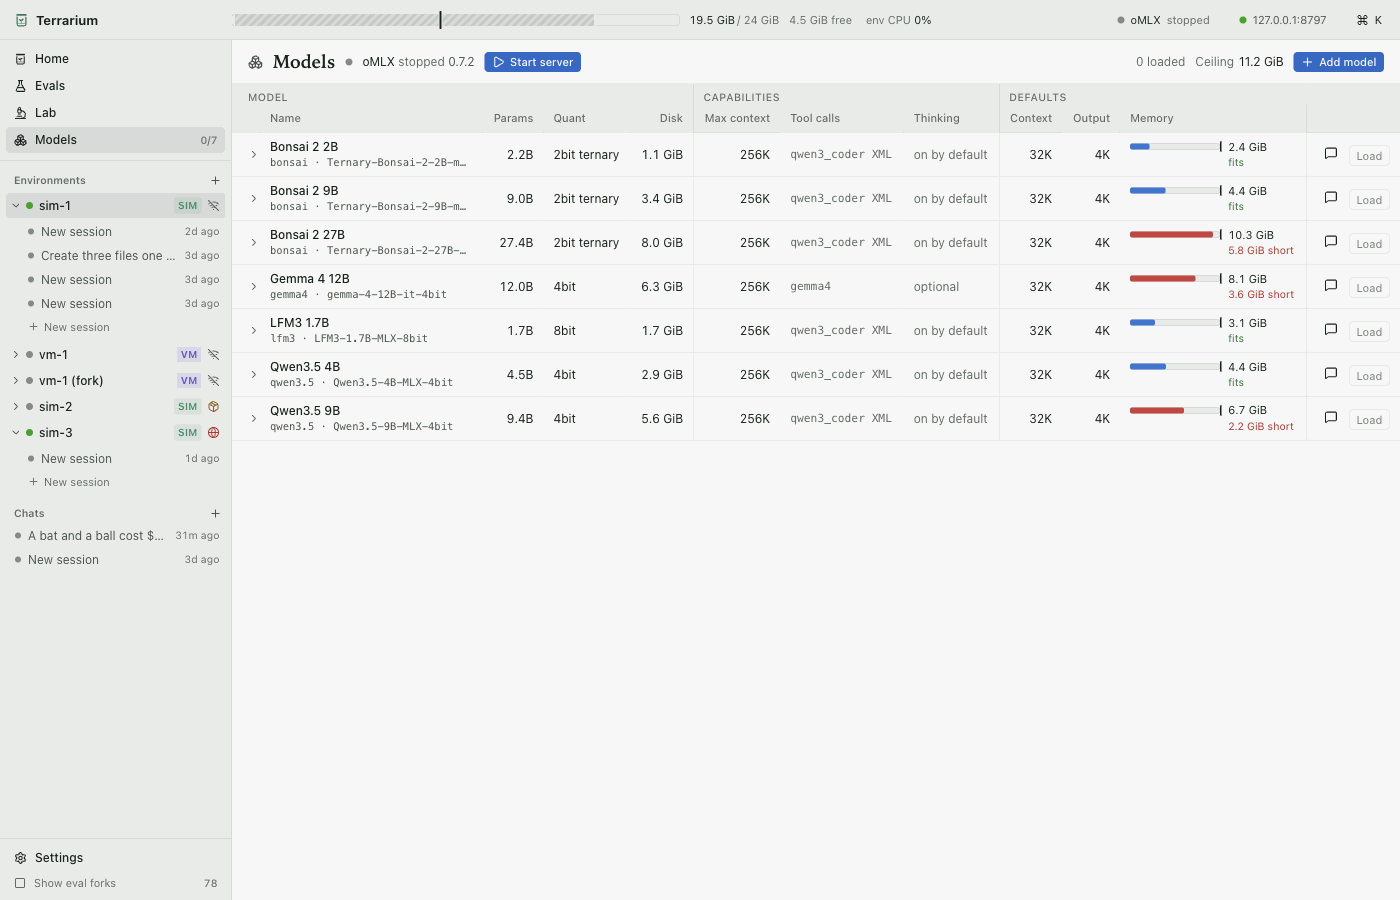
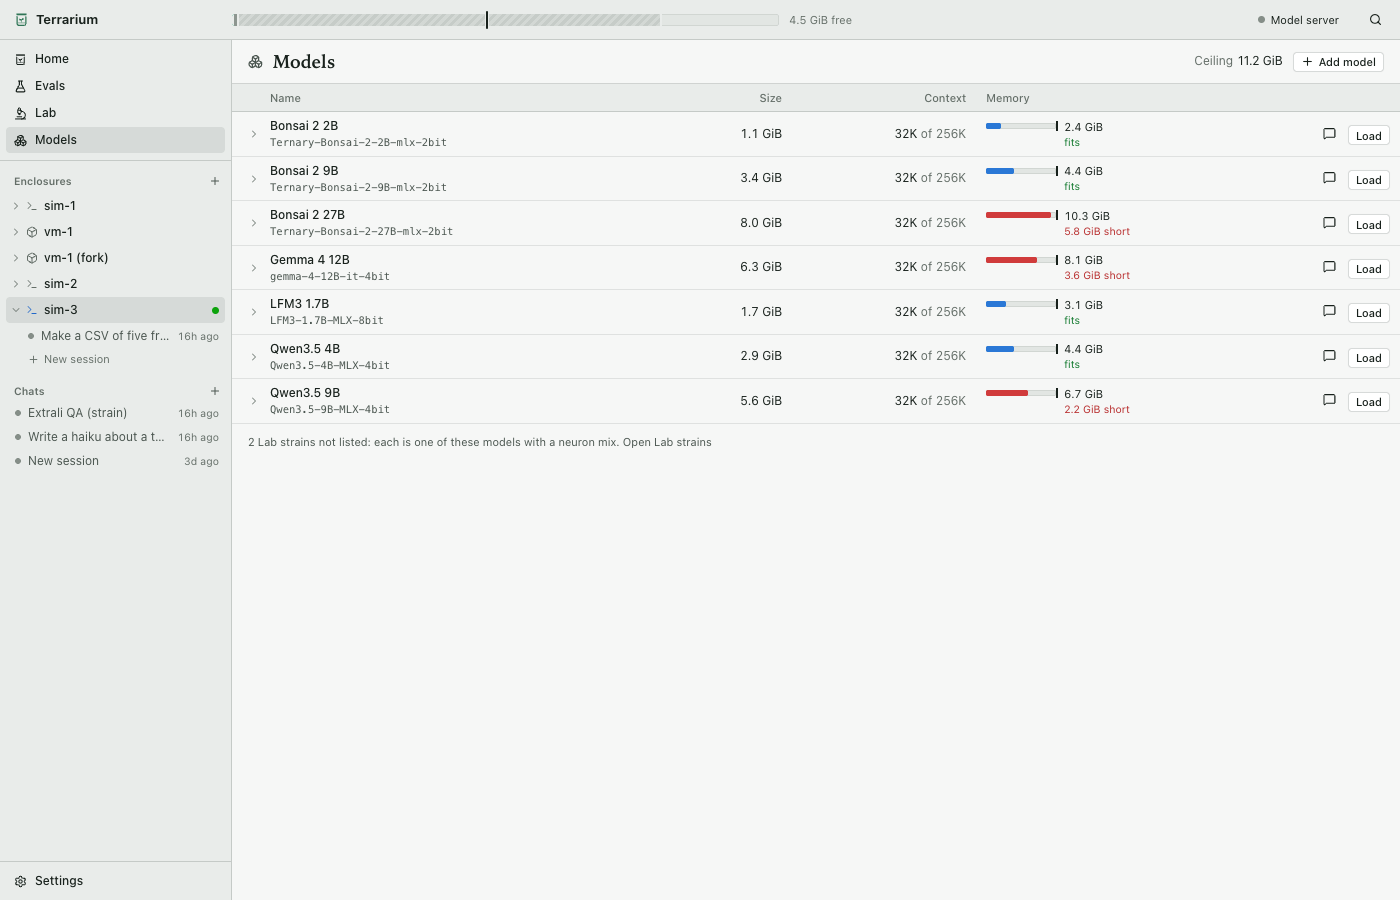
Docs and screenshots for the UX pass; starters clear on a new place; inspector tabs fit at the minimum window

diff --git a/apps/ui/src/views/EvalsView.tsx b/apps/ui/src/views/EvalsView.tsx
@@ -886,7 +886,7 @@ function SuiteView({ suite, pick }: { suite: EvalSuite; pick?: string }) {
         <span>
           <span className="dim">Runs in</span>{" "}
           <Hint tip={ENV_RUN[suite.envType]} width={320}>
-            <span className="hint-text">{suite.envType === "none" ? "none" : "fresh fork per case"}</span>
+            <span className="hint-text">{suite.envType === "none" ? "no enclosure" : "fresh fork per case"}</span>
           </Hint>
         </span>
         {suite.source && (
@@ -992,7 +992,7 @@ function SuiteView({ suite, pick }: { suite: EvalSuite; pick?: string }) {
             <button className="btn primary" disabled={!picked.length || busy} onClick={() => void start()}>
               {busy ? <Loader2 className="spin" /> : <Play />} Run {plural(n, "case")} × {plural(picked.length, "model")}
             </button>
-            <span className="dim num">{plural(cells, "cell")}</span>
+            {picked.length > 1 && <span className="dim num">{plural(cells, "session")}</span>}
           </div>
         </div>
         <div className="ev-scroll">

diff --git a/apps/ui/src/views/SessionView.tsx b/apps/ui/src/views/SessionView.tsx
@@ -24,7 +24,7 @@ function HarnessPicker({ s }: { s: SessionSummary }) {
   const running = s.status === "running";
   const label = (
     <>
-      <span className="dim">harness</span> {harnessName(s.harness)}
+      <span className="dim">prompt</span> {harnessName(s.harness)}
       {s.customPrompt && <span className="chip accent" title="This session sends its own system prompt">custom prompt</span>}
     </>
   );

diff --git a/apps/ui/src/views/HomeView.tsx b/apps/ui/src/views/HomeView.tsx
@@ -118,8 +118,9 @@ function TaskBox() {
   // a starter fits one kind of place: gone when you pick another, unless you edited it
   const tried = useRef<string | null>(null);
   useEffect(() => {
-    setText((t) => (t === tried.current ? "" : t));
+    const starter = tried.current;
     tried.current = null;
+    setText((t) => (t === starter ? "" : t));
   }, [value]);
 
   const start = async () => {

diff --git a/apps/ui/src/styles/inspector.css b/apps/ui/src/styles/inspector.css
@@ -72,6 +72,20 @@
 .insp-tabs button:disabled {
   color: var(--fg-4);
 }
+/* at the minimum window all six still fit */
+@media (max-width: 1179px) {
+  .insp-tabs {
+    gap: 0;
+    padding: 0 4px;
+  }
+  .insp-tabs button {
+    padding: 0 4px;
+  }
+  .insp-tabs button.on::after {
+    left: 3px;
+    right: 3px;
+  }
+}
 .insp-body {
   flex: 1;
   min-height: 0;

diff --git a/README.md b/README.md
@@ -25,15 +25,26 @@ pnpm --filter @terrarium/ui dev        # open the printed http://localhost:5173/
 Installed app: `pnpm package` builds `~/Applications/Terrarium.app`. Nothing runs until you open it; Cmd+Q
 stops the backend, oMLX and every VM. Closing the window keeps runs going.
 
-First session: Home lists what you can start. Run an agent opens a session in a Linux VM, a simulated shell
-or a plain chat with the model you pick (it creates the environment if there is none yet); oMLX starts and
-the model loads with the first message. An empty session shows its model, harness and environment and a few
-tasks to try, and each run ends with a line counting its tool calls, changed files and blocked network
-requests. Compare models shows the latest eval scores, Test the sandbox runs the escape suite, and Steer a
-neuron runs the Lab example. Each environment is drawn as an enclosure whose lid shows its network policy:
-shut for off, dashed for package registries, lifted for the web.
+First run: with no models, Home offers three known-good downloads and Hugging Face for anything else, and the Lab
+offers the one its example needs. A model folder in `models/` can be a link to another disk. Linux VMs need a guest
+image; New enclosure and Home offer Build VM image, about a minute, and simulated shells work without it.
 
-![Home: starting points, environments and sessions](docs/screenshots/home.png)
+After that, Home is one sentence: give a model a task, with the model picker in the sentence and a place to run it
+(an existing enclosure that's free, a new one, or a plain chat). oMLX starts and the model loads with the first
+message. Under it are three things to try, each with its last result: compare models, test the sandbox, steer a
+neuron. Then the shelf and recent sessions. Each enclosure is drawn as a glass case: the lid shows its network policy
+(shut for off, vented for package registries, lifted for the web), a dashed pane means a simulated shell, a solid one
+a Linux VM, and the plant grows with its sessions. Each run ends with a line counting its tool calls, changed files
+and blocked network requests.
+
+The UI calls an environment an enclosure. This README and DESIGN.md mean the same thing by either word; the model is
+told "environment", since that's the word it understands.
+
+Deleting: what can come back gets an Undo toast, with Cmd+Z (a stopped session, for 30 seconds). What can't asks first
+(an enclosure, a model, a running session). Never both. Edit > Undo and Redo reach the same stack when no text field
+has focus; in a field they stay the field's own.
+
+![Home: a task, things to try, the shelf and recent sessions](docs/screenshots/home.png)
 
 ## Architecture
 
@@ -89,9 +100,12 @@ it gets; the environment decides what those tools can touch.
 | Defaults | 2 CPUs, 1 GiB RAM, 4 GiB disk, krun backend | Python on, JavaScript off, 64 MiB file limit |
 
 Environments can be snapshotted, forked, reset to their factory snapshot and opened in a shell. The New
-environment sheet shows this comparison and explains every field on hover.
+enclosure sheet opens this comparison under Compare in detail and explains every field on hover.
 
-![New environment sheet](docs/screenshots/new-env.png)
+At the limit, a session or eval case waits for a free slot and says so in its trace; Stop ends the wait. A Start press
+is refused at once and told what holds the slots, since a person can act on that.
+
+![New enclosure sheet](docs/screenshots/new-env.png)
 
 ## Harness profiles
 
@@ -132,8 +146,11 @@ puts it into `.venv` before oMLX starts (`apps/backend/README.md`). The check sh
 by Terrarium". Tool calls use the same XML format as Qwen3.5. The 8bit build is suggested because the 4bit one
 picks a different top token about 1 time in 5 compared with full precision.
 
-The memory ceiling (Settings) is the most oMLX may use for models; past it oMLX refuses another load and
-evicts idle models. It takes effect when oMLX starts.
+The Models table has one row per model (size, context, memory, Load); the details are in the row's disclosure. Load
+starts oMLX if it's stopped.
+
+The memory ceiling (Settings) is the most oMLX and the Lab may use together. oMLX's own guard is set to what the Lab
+leaves, and both apply right away: past it, idle models are unloaded and another load is refused with the reason.
 
 ## Evals
 
@@ -241,7 +258,8 @@ The example and prepared sets live in one file, `apps/backend/scripts/lab_sets.j
 ## Settings
 
 Memory ceiling, defaults for new sessions (model, context, thinking, harness) and new environments (type,
-network), saved system prompts, resource limits, storage paths with disk use, and versions.
+network), saved system prompts, resource limits, storage paths with disk use, and versions. Storage has a row per
+folder, and Clear for caches that rebuild themselves (`data/lab`, oMLX's).
 
 ![Settings](docs/screenshots/settings.png)
 

diff --git a/DESIGN.md b/DESIGN.md
@@ -197,7 +197,7 @@ Layout: left sidebar, main pane, right inspector (resizable, collapsible).
 running VM, backend, and the budget line. Inference status (stopped/starting/ready) with start/stop.
 
 **Sidebar**: Environments (each: name, VM/SIM chip, status dot, network icon; expand to its sessions;
-"New environment" and "New chat" actions), Evals, Models.
+"New enclosure" and "New chat" actions; the UI calls an environment an enclosure), Evals, Models.
 
 **Session view (main pane)**:
 - Header: env chip (click opens Environment inspector), **model picker**, harness picker, thinking
